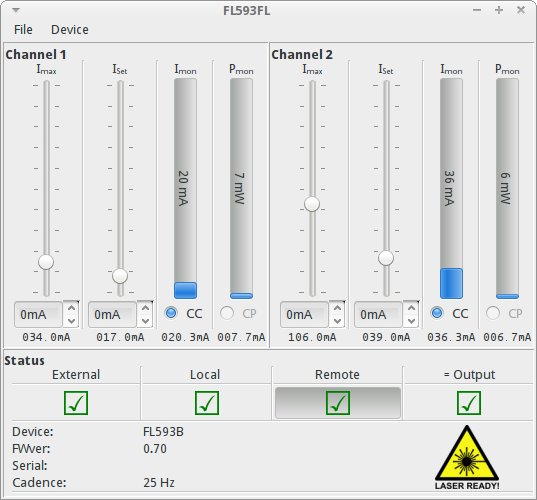
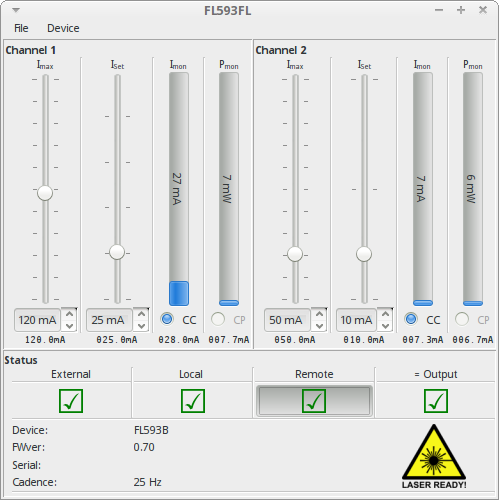
Functional limit/setpoint spinboxes

diff --git a/src/ui/ChannelUi.py b/src/ui/ChannelUi.py
@@ -2,7 +2,7 @@
 
 # Form implementation generated from reading ui file 'ChannelUi.ui'
 #
-# Created: Tue Apr 29 20:39:00 2014
+# Created: Tue Apr 29 23:56:51 2014
 #      by: PyQt4 UI code generator 4.10.4
 #
 # WARNING! All changes made in this file will be lost!
@@ -49,6 +49,20 @@ class Ui_Channel(object):
         self.gridLayout_2.setHorizontalSpacing(2)
         self.gridLayout_2.setVerticalSpacing(0)
         self.gridLayout_2.setObjectName(_fromUtf8("gridLayout_2"))
+        self.lbl_limit_dbg = QtGui.QLabel(self.groupBox)
+        font = QtGui.QFont()
+        font.setFamily(_fromUtf8("Ubuntu Mono"))
+        self.lbl_limit_dbg.setFont(font)
+        self.lbl_limit_dbg.setAlignment(QtCore.Qt.AlignCenter)
+        self.lbl_limit_dbg.setObjectName(_fromUtf8("lbl_limit_dbg"))
+        self.gridLayout_2.addWidget(self.lbl_limit_dbg, 5, 1, 1, 1)
+        self.lbl_imon_dbg = QtGui.QLabel(self.groupBox)
+        font = QtGui.QFont()
+        font.setFamily(_fromUtf8("Ubuntu Mono"))
+        self.lbl_imon_dbg.setFont(font)
+        self.lbl_imon_dbg.setAlignment(QtCore.Qt.AlignCenter)
+        self.lbl_imon_dbg.setObjectName(_fromUtf8("lbl_imon_dbg"))
+        self.gridLayout_2.addWidget(self.lbl_imon_dbg, 5, 6, 1, 1)
         self.line_2 = QtGui.QFrame(self.groupBox)
         self.line_2.setFrameShape(QtGui.QFrame.VLine)
         self.line_2.setFrameShadow(QtGui.QFrame.Sunken)
@@ -56,21 +70,18 @@ class Ui_Channel(object):
         self.gridLayout_2.addWidget(self.line_2, 0, 2, 5, 1)
         spacerItem = QtGui.QSpacerItem(0, 40, QtGui.QSizePolicy.Minimum, QtGui.QSizePolicy.Expanding)
         self.gridLayout_2.addItem(spacerItem, 2, 5, 1, 1)
-        self.verticalLayout = QtGui.QVBoxLayout()
-        self.verticalLayout.setSpacing(0)
-        self.verticalLayout.setObjectName(_fromUtf8("verticalLayout"))
-        spacerItem1 = QtGui.QSpacerItem(0, 40, QtGui.QSizePolicy.Minimum, QtGui.QSizePolicy.Expanding)
-        self.verticalLayout.addItem(spacerItem1)
-        self.gridLayout_2.addLayout(self.verticalLayout, 0, 0, 5, 1)
         self.line_3 = QtGui.QFrame(self.groupBox)
         self.line_3.setFrameShape(QtGui.QFrame.VLine)
         self.line_3.setFrameShadow(QtGui.QFrame.Sunken)
         self.line_3.setObjectName(_fromUtf8("line_3"))
         self.gridLayout_2.addWidget(self.line_3, 0, 7, 5, 1)
-        self.spin_set = QtGui.QSpinBox(self.groupBox)
-        self.spin_set.setMaximum(250)
-        self.spin_set.setObjectName(_fromUtf8("spin_set"))
-        self.gridLayout_2.addWidget(self.spin_set, 4, 3, 1, 1)
+        self.lbl_set_dbg = QtGui.QLabel(self.groupBox)
+        font = QtGui.QFont()
+        font.setFamily(_fromUtf8("Ubuntu Mono"))
+        self.lbl_set_dbg.setFont(font)
+        self.lbl_set_dbg.setAlignment(QtCore.Qt.AlignCenter)
+        self.lbl_set_dbg.setObjectName(_fromUtf8("lbl_set_dbg"))
+        self.gridLayout_2.addWidget(self.lbl_set_dbg, 5, 3, 1, 1)
         self.lbl_imon = QtGui.QLabel(self.groupBox)
         sizePolicy = QtGui.QSizePolicy(QtGui.QSizePolicy.Preferred, QtGui.QSizePolicy.Maximum)
         sizePolicy.setHorizontalStretch(0)
@@ -171,31 +182,6 @@ class Ui_Channel(object):
         self.progbar_pmon.setObjectName(_fromUtf8("progbar_pmon"))
         self.horizontalLayout_6.addWidget(self.progbar_pmon)
         self.gridLayout_2.addLayout(self.horizontalLayout_6, 2, 8, 1, 1)
-        self.spin_max = QtGui.QSpinBox(self.groupBox)
-        self.spin_max.setMaximum(250)
-        self.spin_max.setObjectName(_fromUtf8("spin_max"))
-        self.gridLayout_2.addWidget(self.spin_max, 4, 1, 1, 1)
-        self.lbl_limit_dbg = QtGui.QLabel(self.groupBox)
-        font = QtGui.QFont()
-        font.setFamily(_fromUtf8("Ubuntu Mono"))
-        self.lbl_limit_dbg.setFont(font)
-        self.lbl_limit_dbg.setAlignment(QtCore.Qt.AlignCenter)
-        self.lbl_limit_dbg.setObjectName(_fromUtf8("lbl_limit_dbg"))
-        self.gridLayout_2.addWidget(self.lbl_limit_dbg, 5, 1, 1, 1)
-        self.lbl_set_dbg = QtGui.QLabel(self.groupBox)
-        font = QtGui.QFont()
-        font.setFamily(_fromUtf8("Ubuntu Mono"))
-        self.lbl_set_dbg.setFont(font)
-        self.lbl_set_dbg.setAlignment(QtCore.Qt.AlignCenter)
-        self.lbl_set_dbg.setObjectName(_fromUtf8("lbl_set_dbg"))
-        self.gridLayout_2.addWidget(self.lbl_set_dbg, 5, 3, 1, 1)
-        self.lbl_imon_dbg = QtGui.QLabel(self.groupBox)
-        font = QtGui.QFont()
-        font.setFamily(_fromUtf8("Ubuntu Mono"))
-        self.lbl_imon_dbg.setFont(font)
-        self.lbl_imon_dbg.setAlignment(QtCore.Qt.AlignCenter)
-        self.lbl_imon_dbg.setObjectName(_fromUtf8("lbl_imon_dbg"))
-        self.gridLayout_2.addWidget(self.lbl_imon_dbg, 5, 6, 1, 1)
         self.lbl_pmon_dbg = QtGui.QLabel(self.groupBox)
         font = QtGui.QFont()
         font.setFamily(_fromUtf8("Ubuntu Mono"))
@@ -203,6 +189,22 @@ class Ui_Channel(object):
         self.lbl_pmon_dbg.setAlignment(QtCore.Qt.AlignCenter)
         self.lbl_pmon_dbg.setObjectName(_fromUtf8("lbl_pmon_dbg"))
         self.gridLayout_2.addWidget(self.lbl_pmon_dbg, 5, 8, 1, 1)
+        self.verticalLayout = QtGui.QVBoxLayout()
+        self.verticalLayout.setSpacing(0)
+        self.verticalLayout.setObjectName(_fromUtf8("verticalLayout"))
+        spacerItem1 = QtGui.QSpacerItem(0, 40, QtGui.QSizePolicy.Minimum, QtGui.QSizePolicy.Expanding)
+        self.verticalLayout.addItem(spacerItem1)
+        self.gridLayout_2.addLayout(self.verticalLayout, 0, 0, 5, 1)
+        self.spin_max = QtGui.QSpinBox(self.groupBox)
+        self.spin_max.setKeyboardTracking(False)
+        self.spin_max.setMaximum(250)
+        self.spin_max.setObjectName(_fromUtf8("spin_max"))
+        self.gridLayout_2.addWidget(self.spin_max, 4, 1, 1, 1)
+        self.spin_set = QtGui.QSpinBox(self.groupBox)
+        self.spin_set.setKeyboardTracking(False)
+        self.spin_set.setMaximum(250)
+        self.spin_set.setObjectName(_fromUtf8("spin_set"))
+        self.gridLayout_2.addWidget(self.spin_set, 4, 3, 1, 1)
         self.horizontalLayout.addLayout(self.gridLayout_2)
         self.horizontalLayout_2.addWidget(self.groupBox)
         self.gridLayout.addWidget(self.frame, 0, 0, 1, 1)
@@ -213,7 +215,9 @@ class Ui_Channel(object):
     def retranslateUi(self, Channel):
         Channel.setWindowTitle(_translate("Channel", "Form", None))
         self.groupBox.setTitle(_translate("Channel", "Channel [n]", None))
-        self.spin_set.setSuffix(_translate("Channel", "mA", None))
+        self.lbl_limit_dbg.setText(_translate("Channel", "0.000 mA", None))
+        self.lbl_imon_dbg.setText(_translate("Channel", "0.000 mA", None))
+        self.lbl_set_dbg.setText(_translate("Channel", "0.000 mA", None))
         self.lbl_imon.setText(_translate("Channel", "<html><head/><body><p>I<span style=\" vertical-align:sub;\">mon</span></p></body></html>", None))
         self.lbl_pmon.setText(_translate("Channel", "<html><head/><body><p>P<span style=\" vertical-align:sub;\">mon</span></p></body></html>", None))
         self.lbl_set.setText(_translate("Channel", "<html><head/><body><p>I<span style=\" vertical-align:sub;\">Set</span></p></body></html>", None))
@@ -224,9 +228,7 @@ class Ui_Channel(object):
         self.radio_CC.setText(_translate("Channel", "CC", None))
         self.progbar_imon.setFormat(_translate("Channel", "%v mA", None))
         self.progbar_pmon.setFormat(_translate("Channel", "%v mW", None))
-        self.spin_max.setSuffix(_translate("Channel", "mA", None))
-        self.lbl_limit_dbg.setText(_translate("Channel", "0.000 mA", None))
-        self.lbl_set_dbg.setText(_translate("Channel", "0.000 mA", None))
-        self.lbl_imon_dbg.setText(_translate("Channel", "0.000 mA", None))
         self.lbl_pmon_dbg.setText(_translate("Channel", "0.000 mA", None))
+        self.spin_max.setSuffix(_translate("Channel", " mA", None))
+        self.spin_set.setSuffix(_translate("Channel", " mA", None))
 

diff --git a/src/qtflfl.py b/src/qtflfl.py
@@ -31,7 +31,10 @@ class ChannelWidget(QtGui.QWidget, ChannelUi.Ui_Channel):
         self.laser_channel = None
 
         self.slider_iset.valueChanged[int].connect(self.set_setpoint)
+        self.spin_set.valueChanged[int].connect(self.set_setpoint)
+
         self.slider_imax.valueChanged[int].connect(self.set_limit)
+        self.spin_max.valueChanged[int].connect(self.set_limit)
 
     def initialize(self, channel):
         self.laser_channel = channel
@@ -45,22 +48,31 @@ class ChannelWidget(QtGui.QWidget, ChannelUi.Ui_Channel):
                 self.radio_CP.setChecked(True)
 
             # Current and power levels
-            imon = int(self.laser_channel.imon)
-            self.progbar_imon.setValue(imon if imon >= 0 else 0)
-            pmon = int(self.laser_channel.pmon)
-            self.progbar_pmon.setValue(pmon if pmon >= 0 else 0)
-            self.lbl_imon_dbg.setText('{0:0=5.1f}mA'.format(self.laser_channel.imon))
-            self.lbl_pmon_dbg.setText('{0:0=5.1f}mA'.format(self.laser_channel.pmon))
-            self.lbl_limit_dbg.setText('{0:0=5.1f}mA'.format(self.laser_channel.max))
+            imon = self.laser_channel.imon
+            pmon = self.laser_channel.pmon
+            limit = self.laser_channel.max
+            setpoint = self.laser_channel.setpoint
 
-            self.slider_iset.setMaximum(self.laser_channel.max)
-            self.lbl_set_dbg.setText('{0:0=5.1f}mA'.format(self.laser_channel.setpoint))
+            # Current and power levels
+            self.progbar_imon.setValue(imon if int(imon) >= 0 else 0)
+            self.lbl_imon_dbg.setText('{0:0=5.1f}mA'.format(imon))
+            self.progbar_pmon.setValue(pmon if int(pmon) >= 0 else 0)
+            self.lbl_pmon_dbg.setText('{0:0=5.1f}mA'.format(pmon))
 
-            # current OR power level limits and setpoint
-            if self.laser_channel.max is not None:
-                self.slider_imax.setValue(int(self.laser_channel.max))
-            if self.laser_channel.setpoint is not None:
-                self.slider_iset.setValue(int(self.laser_channel.setpoint))
+            # Limit
+            self.lbl_limit_dbg.setText('{0:0=5.1f}mA'.format(limit))
+            self.slider_imax.setValue(int(limit))
+            if self.spin_max.value() != int(limit):
+                self.spin_max.setValue(int(limit))
+
+            # Setpoint
+            ## Limit is maximum for setpoint
+            self.spin_set.setMaximum(int(limit))
+            self.slider_iset.setMaximum(int(limit))
+            if self.spin_set.value() != int(setpoint):
+                self.spin_set.setValue(int(setpoint))
+            self.slider_iset.setValue(int(setpoint))
+            self.lbl_set_dbg.setText('{0:0=5.1f}mA'.format(setpoint))
 
     def set_setpoint(self, value):
         if self.laser_channel is not None:

diff --git a/src/ui/MainWindowUi.py b/src/ui/MainWindowUi.py
@@ -2,7 +2,7 @@
 
 # Form implementation generated from reading ui file 'MainWindowUi.ui'
 #
-# Created: Tue Apr 29 21:30:32 2014
+# Created: Tue Apr 29 23:56:08 2014
 #      by: PyQt4 UI code generator 4.10.4
 #
 # WARNING! All changes made in this file will be lost!
@@ -26,7 +26,7 @@ except AttributeError:
 class Ui_MainWindow(object):
     def setupUi(self, MainWindow):
         MainWindow.setObjectName(_fromUtf8("MainWindow"))
-        MainWindow.resize(402, 480)
+        MainWindow.resize(456, 480)
         icon = QtGui.QIcon()
         icon.addPixmap(QtGui.QPixmap(_fromUtf8(":/icons/laser_warning.svg")), QtGui.QIcon.Normal, QtGui.QIcon.Off)
         MainWindow.setWindowIcon(icon)
@@ -171,6 +171,7 @@ class Ui_MainWindow(object):
         self.line_9.setObjectName(_fromUtf8("line_9"))
         self.gridLayout_3.addWidget(self.line_9, 4, 0, 1, 7)
         self.horizontalLayout_2 = QtGui.QHBoxLayout()
+        self.horizontalLayout_2.setMargin(3)
         self.horizontalLayout_2.setObjectName(_fromUtf8("horizontalLayout_2"))
         self.lbl_laser_warning = QtGui.QLabel(self.groupBox_3)
         self.lbl_laser_warning.setEnabled(False)
@@ -198,7 +199,7 @@ class Ui_MainWindow(object):
         self.gridLayout.addWidget(self.frame, 1, 1, 1, 2)
         MainWindow.setCentralWidget(self.centralwidget)
         self.menubar = QtGui.QMenuBar(MainWindow)
-        self.menubar.setGeometry(QtCore.QRect(0, 0, 402, 23))
+        self.menubar.setGeometry(QtCore.QRect(0, 0, 456, 23))
         self.menubar.setObjectName(_fromUtf8("menubar"))
         self.menuFile = QtGui.QMenu(self.menubar)
         self.menuFile.setObjectName(_fromUtf8("menuFile"))
